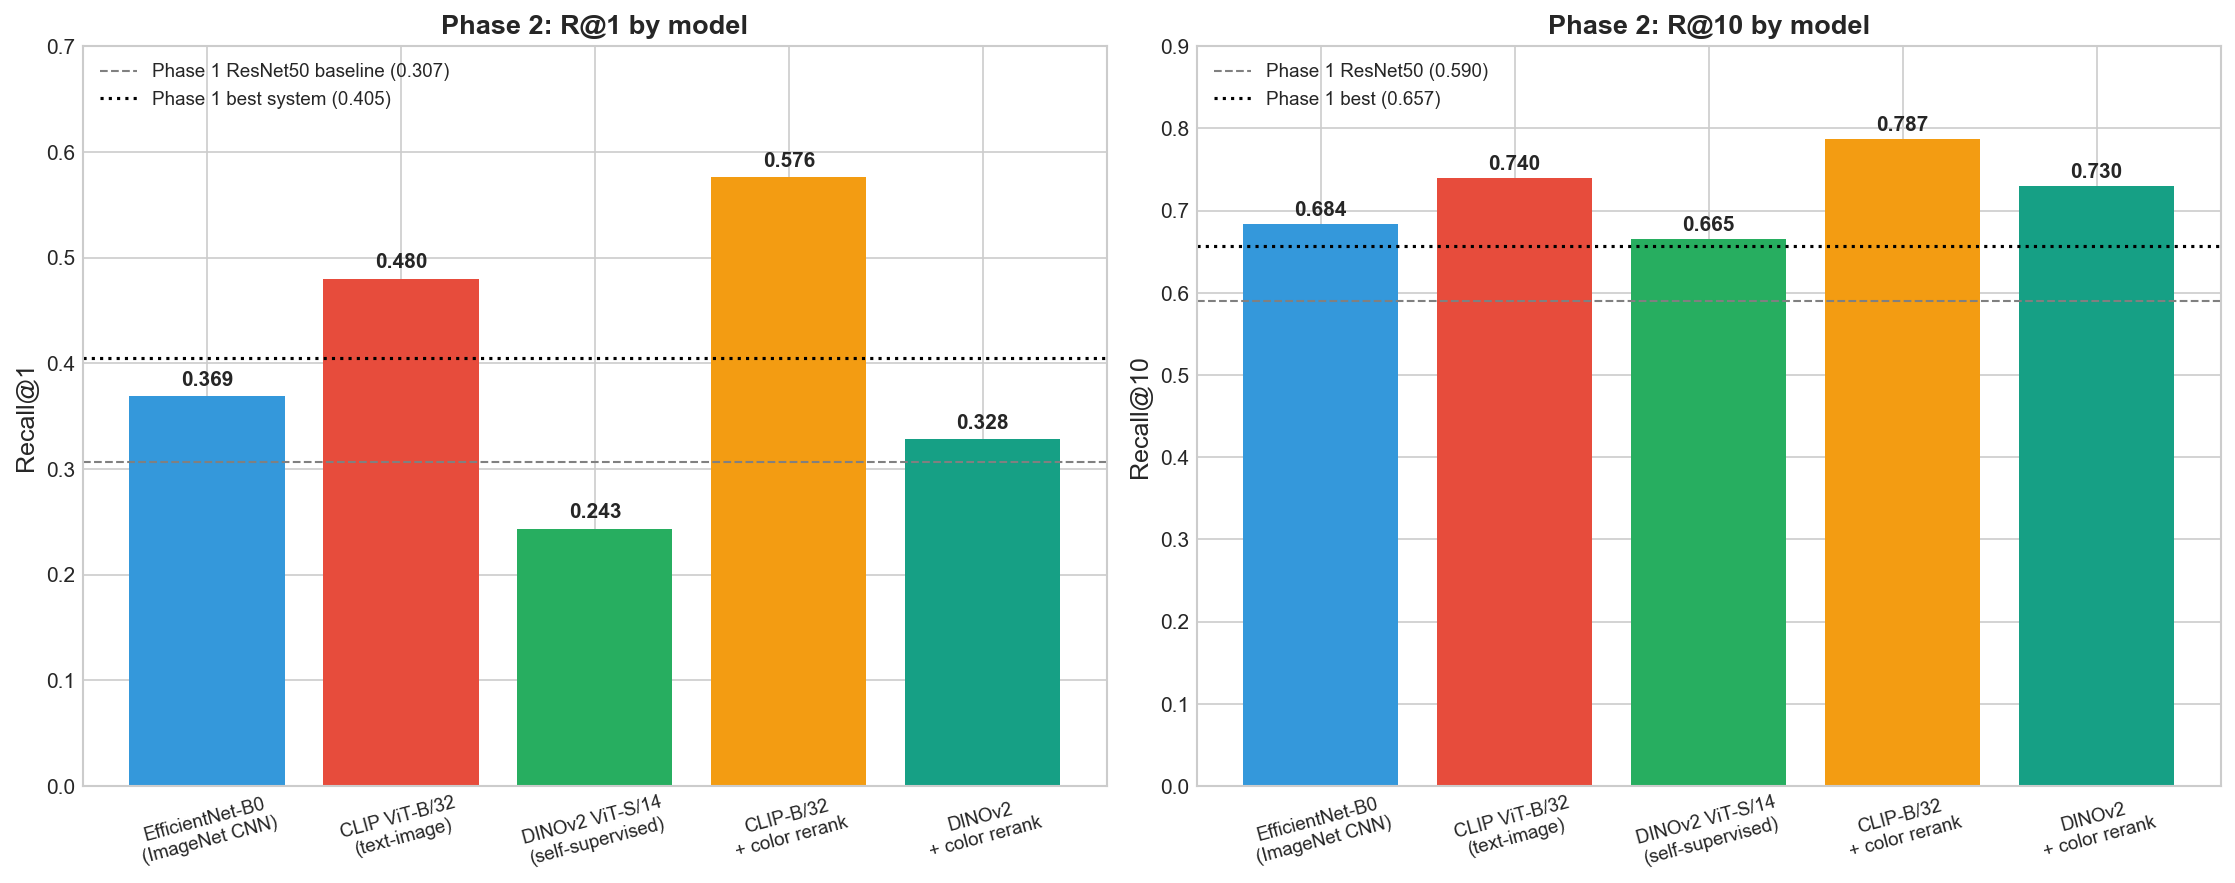
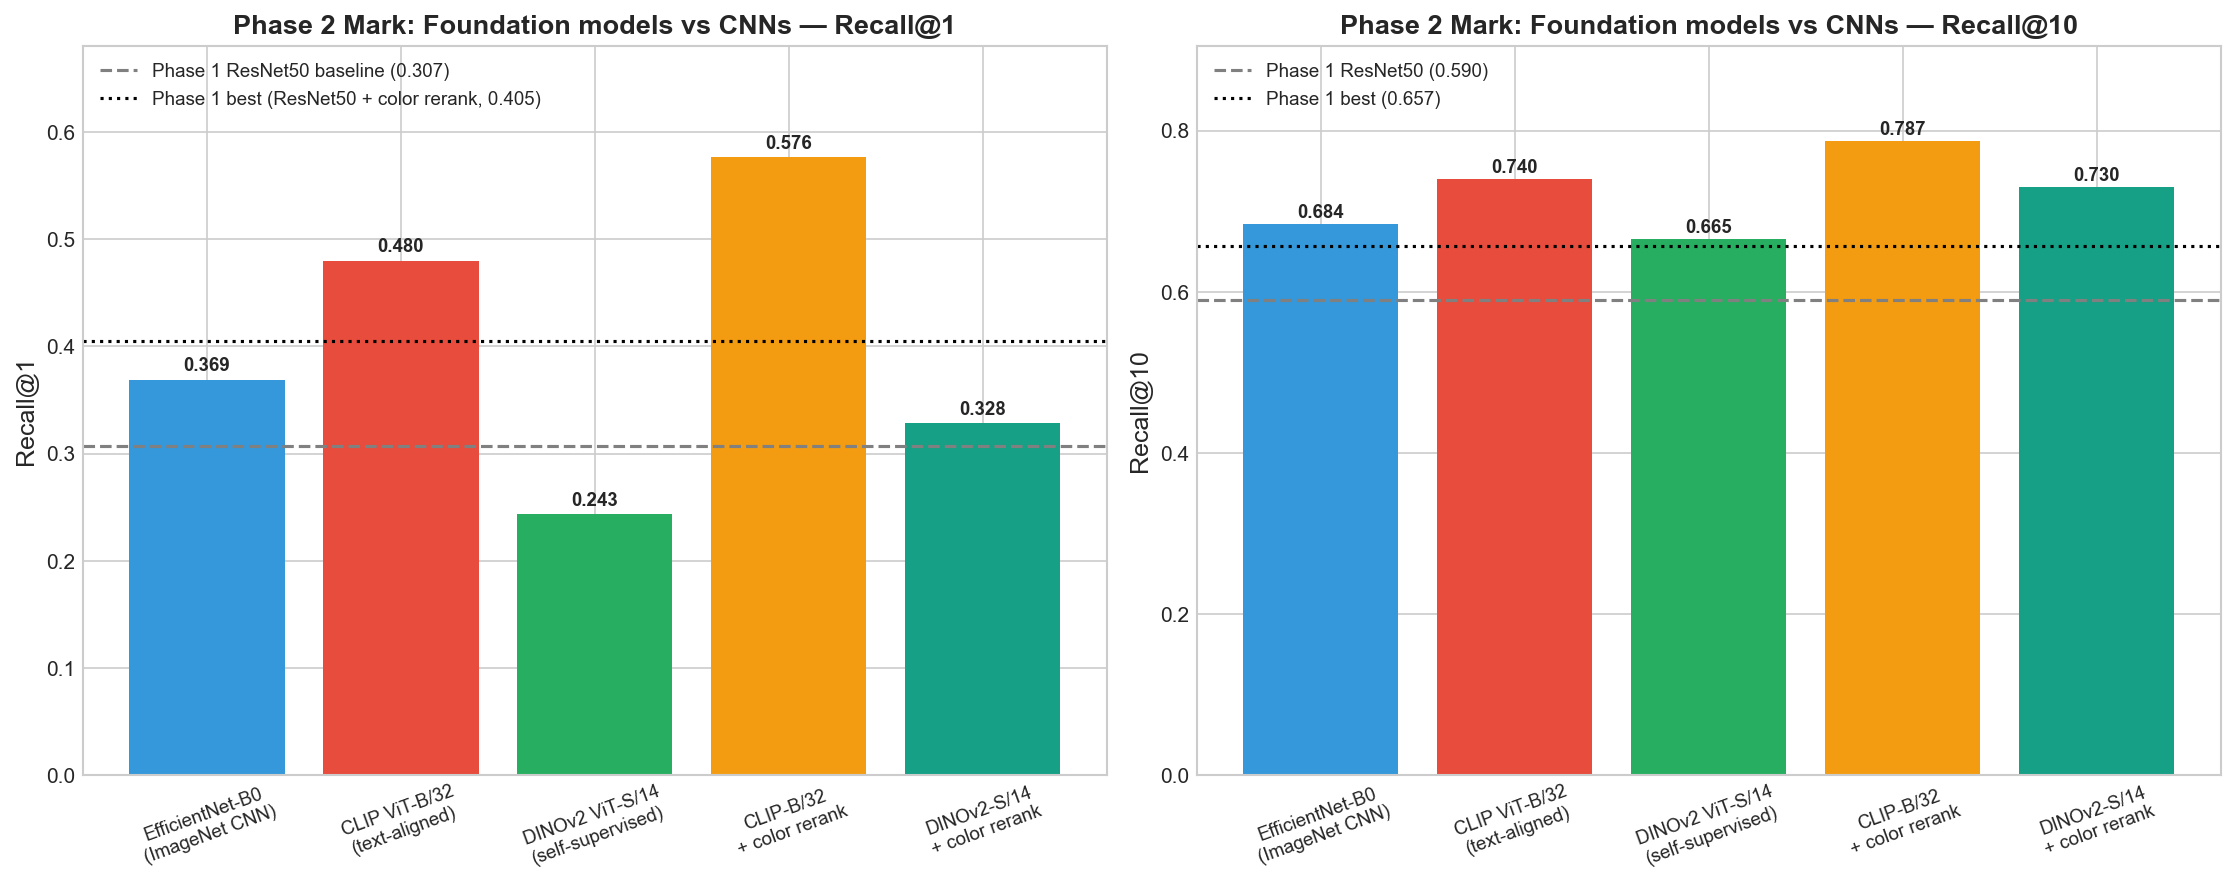
plots(mark): generate the three Phase 2 comparison images
The resilient runner saved metrics.json after each experiment but skipped
the plot block (it was only in the original run_phase2_mark.py, which kept
crashing on CLIP). Regenerate from the saved metrics so the report's
referenced PNGs actually exist:

  - phase2_mark_comparison.png       R@1 / R@10 vs Phase 1 anchors
  - phase2_mark_category_heatmap.png R@1 by model x category
  - phase2_mark_speed_accuracy.png   CPU embed time vs R@1

diff --git a/scripts/make_phase2_mark_plots.py b/scripts/make_phase2_mark_plots.py
@@ -1,0 +1,156 @@
+"""Generate the missing Phase 2 Mark plots from results/metrics.json.
+
+The resilient runner produced metrics but skipped plot generation because the
+fragile run kept crashing mid-experiment. This script reads the saved data
+and generates the three plots the report references:
+
+  - phase2_mark_comparison.png  (R@1 / R@10 bar chart vs Phase 1 baselines)
+  - phase2_mark_category_heatmap.png (R@10 by model x category)
+  - phase2_mark_speed_accuracy.png  (CPU embed time vs R@1)
+"""
+
+import json
+import sys
+from pathlib import Path
+
+import matplotlib
+matplotlib.use('Agg')
+import matplotlib.pyplot as plt
+import numpy as np
+import seaborn as sns
+
+PROJECT_ROOT = Path(__file__).parent.parent
+RESULTS = PROJECT_ROOT / 'results'
+
+plt.style.use('seaborn-v0_8-whitegrid')
+sns.set_palette('husl')
+
+with open(RESULTS / 'metrics.json') as f:
+    metrics = json.load(f)
+
+p2 = metrics['phase2_mark']
+exps = p2['experiments']
+
+# Phase 1 anchors for the dashed comparison lines
+P1_RESNET50_R1 = 0.3067   # Anthony Phase 1 baseline
+P1_RESNET50_R10 = 0.5901
+P1_BEST_R1 = 0.4051       # Mark Phase 1 ResNet50 + color rerank alpha=0.5
+P1_BEST_R10 = 0.6573
+
+# Display labels (newlines for axis readability)
+labels = {
+    'efficientnet_b0_p1_rerun': 'EfficientNet-B0\n(ImageNet CNN)',
+    'clip_vit_b32': 'CLIP ViT-B/32\n(text-aligned)',
+    'dinov2_vits14': 'DINOv2 ViT-S/14\n(self-supervised)',
+    'clip_vit_b32_color_rerank_alpha05': 'CLIP-B/32\n+ color rerank',
+    'dinov2_vits14_color_rerank_alpha05': 'DINOv2-S/14\n+ color rerank',
+}
+order = [k for k in labels if k in exps]
+r1s = [exps[k]['recall@1'] for k in order]
+r10s = [exps[k]['recall@10'] for k in order]
+plot_colors = ['#3498db', '#e74c3c', '#27ae60', '#f39c12', '#16a085']
+
+# ===== Plot 1: overall comparison =====
+fig, axes = plt.subplots(1, 2, figsize=(15, 6))
+
+x_labels = [labels[k] for k in order]
+axes[0].bar(x_labels, r1s, color=plot_colors[:len(order)])
+axes[0].axhline(P1_RESNET50_R1, color='grey', linestyle='--',
+                label=f'Phase 1 ResNet50 baseline ({P1_RESNET50_R1:.3f})')
+axes[0].axhline(P1_BEST_R1, color='black', linestyle=':',
+                label=f'Phase 1 best (ResNet50 + color rerank, {P1_BEST_R1:.3f})')
+axes[0].set_ylabel('Recall@1', fontsize=12)
+axes[0].set_title('Phase 2 Mark: Foundation models vs CNNs — Recall@1',
+                  fontsize=13, fontweight='bold')
+axes[0].legend(loc='upper left', fontsize=9)
+axes[0].tick_params(axis='x', rotation=20, labelsize=9)
+axes[0].set_ylim(0, max(max(r1s), P1_BEST_R1) * 1.18)
+for i, v in enumerate(r1s):
+    axes[0].text(i, v + 0.008, f'{v:.3f}', ha='center', fontsize=9, fontweight='bold')
+
+axes[1].bar(x_labels, r10s, color=plot_colors[:len(order)])
+axes[1].axhline(P1_RESNET50_R10, color='grey', linestyle='--',
+                label=f'Phase 1 ResNet50 ({P1_RESNET50_R10:.3f})')
+axes[1].axhline(P1_BEST_R10, color='black', linestyle=':',
+                label=f'Phase 1 best ({P1_BEST_R10:.3f})')
+axes[1].set_ylabel('Recall@10', fontsize=12)
+axes[1].set_title('Phase 2 Mark: Foundation models vs CNNs — Recall@10',
+                  fontsize=13, fontweight='bold')
+axes[1].legend(loc='upper left', fontsize=9)
+axes[1].tick_params(axis='x', rotation=20, labelsize=9)
+axes[1].set_ylim(0, max(max(r10s), P1_BEST_R10) * 1.15)
+for i, v in enumerate(r10s):
+    axes[1].text(i, v + 0.008, f'{v:.3f}', ha='center', fontsize=9, fontweight='bold')
+
+plt.tight_layout()
+out = RESULTS / 'phase2_mark_comparison.png'
+plt.savefig(out, dpi=150, bbox_inches='tight')
+plt.close()
+print(f"saved {out}")
+
+# ===== Plot 2: per-category heatmap (R@1) =====
+short = {
+    'efficientnet_b0_p1_rerun': 'EfficientNet-B0',
+    'clip_vit_b32': 'CLIP-B/32',
+    'dinov2_vits14': 'DINOv2-S/14',
+    'clip_vit_b32_color_rerank_alpha05': 'CLIP-B/32 + color',
+    'dinov2_vits14_color_rerank_alpha05': 'DINOv2 + color',
+}
+keys = [k for k in short if k in exps]
+cats = sorted({c for k in keys for c in exps[k].get('per_category_r1', {}).keys()})
+matrix = np.zeros((len(keys), len(cats)))
+for i, k in enumerate(keys):
+    pc = exps[k].get('per_category_r1', {})
+    for j, c in enumerate(cats):
+        matrix[i, j] = pc.get(c, {}).get('recall@1', np.nan)
+
+fig, ax = plt.subplots(figsize=(11, 5))
+sns.heatmap(matrix, annot=True, fmt='.3f', cmap='YlGnBu',
+            xticklabels=cats, yticklabels=[short[k] for k in keys],
+            ax=ax, cbar_kws={'label': 'Recall@1'})
+ax.set_title('Phase 2 Mark: Recall@1 by model x category',
+             fontsize=13, fontweight='bold')
+plt.tight_layout()
+out = RESULTS / 'phase2_mark_category_heatmap.png'
+plt.savefig(out, dpi=150, bbox_inches='tight')
+plt.close()
+print(f"saved {out}")
+
+# ===== Plot 3: speed vs accuracy =====
+# Only backbones (not rerank ones) have embed_time metadata
+backbones = ['efficientnet_b0_p1_rerun', 'clip_vit_b32', 'dinov2_vits14']
+backbone_color = {
+    'efficientnet_b0_p1_rerun': '#3498db',
+    'clip_vit_b32': '#e74c3c',
+    'dinov2_vits14': '#27ae60',
+}
+fig, ax = plt.subplots(figsize=(10, 6))
+for k in backbones:
+    if k not in exps:
+        continue
+    e = exps[k]
+    t = e.get('total_embed_time_s')
+    r1 = e['recall@1']
+    if t is None:
+        continue
+    ax.scatter(t, r1, s=240, color=backbone_color[k], edgecolors='black', zorder=3)
+    label = short[k]
+    ax.annotate(label, xy=(t, r1), xytext=(8, 10),
+                textcoords='offset points', fontsize=10, fontweight='bold')
+
+ax.axhline(P1_RESNET50_R1, color='grey', linestyle='--',
+           label=f'Phase 1 ResNet50 baseline ({P1_RESNET50_R1:.3f})')
+ax.axhline(P1_BEST_R1, color='black', linestyle=':',
+           label=f'Phase 1 best ({P1_BEST_R1:.3f})')
+ax.set_xlabel('Total embed time on 1,327 images, CPU (seconds)', fontsize=11)
+ax.set_ylabel('Recall@1', fontsize=11)
+ax.set_title('Phase 2 Mark: accuracy vs embedding cost (CPU)',
+             fontsize=13, fontweight='bold')
+ax.legend(loc='lower right', fontsize=10)
+plt.tight_layout()
+out = RESULTS / 'phase2_mark_speed_accuracy.png'
+plt.savefig(out, dpi=150, bbox_inches='tight')
+plt.close()
+print(f"saved {out}")
+
+print('\nDone.')
